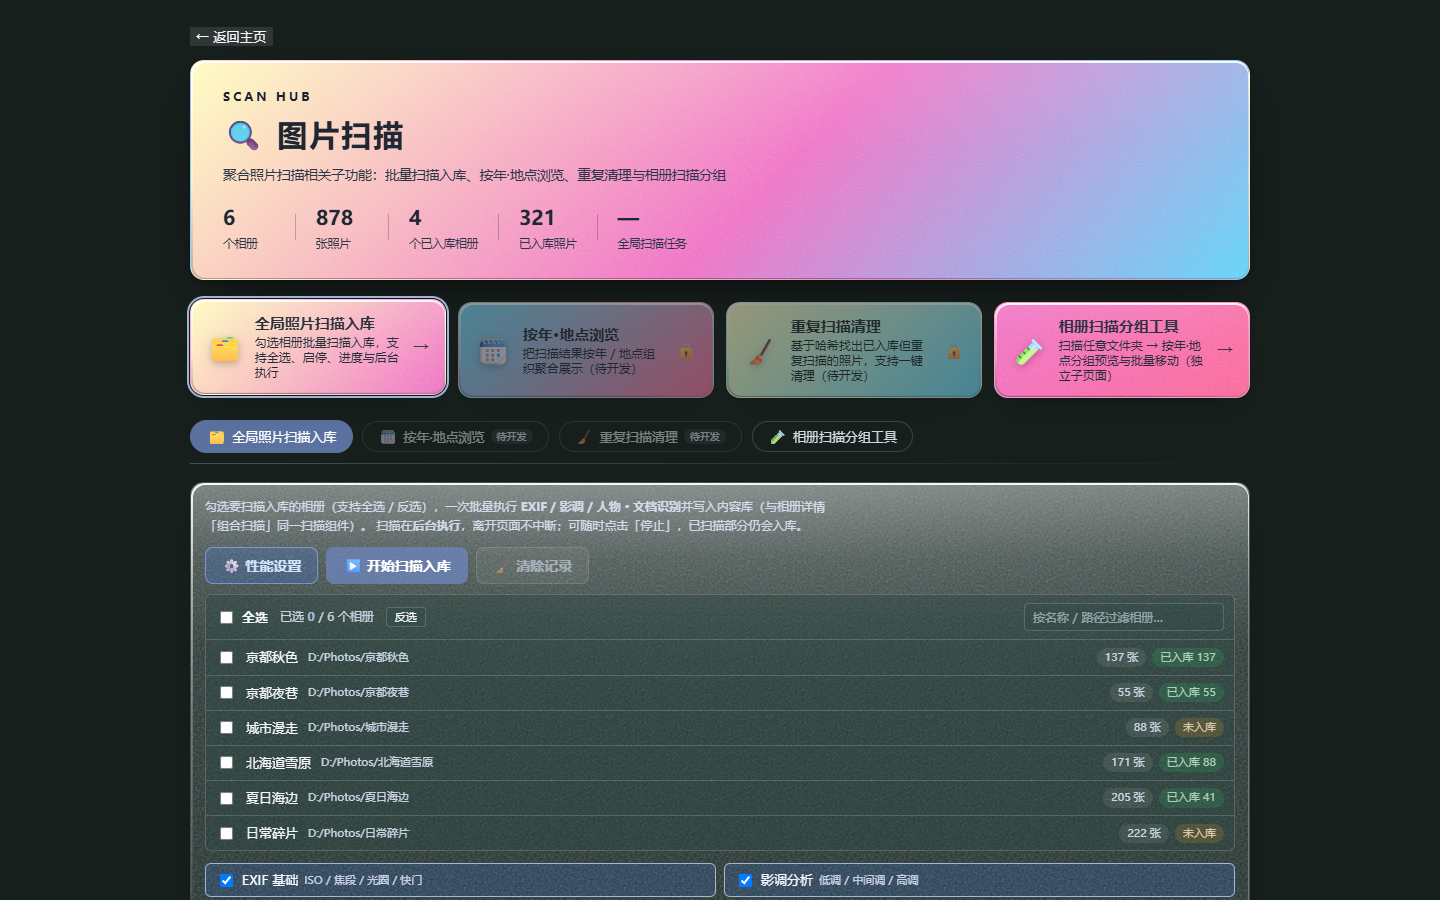
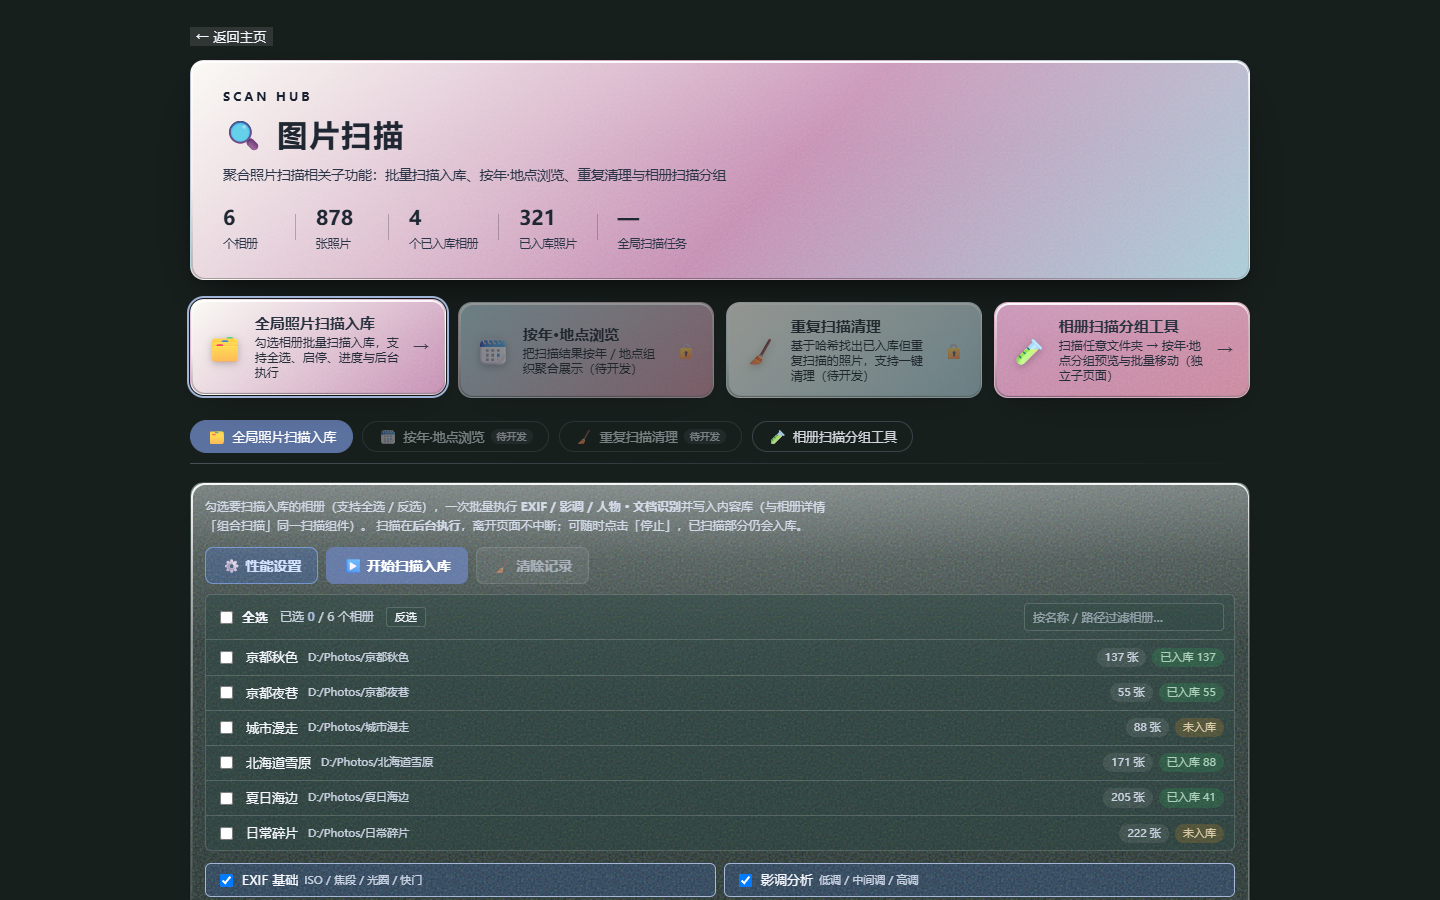
feat(theme): 糖果彩虹色板注册进饱和度管线——hero横幅/入口卡/回忆故事卡的渐变改为 var(--candy-*)，滑块现在同时带动这两页组件

Changed region(s): [[0.125, 0.0622, 0.6875, 0.4356], [0.5938, 0.0622, 0.875, 0.4667]]

diff --git a/src/views/Memories.vue b/src/views/Memories.vue
@@ -199,17 +199,17 @@ function gotoPerson(p: PersonInfo) {
 }
 
 /* -------------------- 故事/年度卡底色（鲜艳彩虹 · 用户色卡） --------------------
-   六个基色来自用户提供的色卡：#FFFCBD / #F075C7 / #65D5F9 / #FB6D9B / #505FDD / #3A36E4；
+   六个基色来自用户提供的色卡：var(--candy-cream) / var(--candy-pink) / var(--candy-blue) / var(--candy-rose) / var(--candy-indigo) / var(--candy-violet)；
    文字是白字，底部靠 .mem-story-fade / .mem-year-fade 的黑色 scrim 保对比度。 */
 const PALETTE = [
-  "linear-gradient(135deg, #FFFCBD 0%, #F075C7 100%)",
-  "linear-gradient(135deg, #65D5F9 0%, #FB6D9B 100%)",
-  "linear-gradient(135deg, #F075C7 0%, #505FDD 100%)",
-  "linear-gradient(135deg, #FB6D9B 0%, #3A36E4 100%)",
-  "linear-gradient(135deg, #65D5F9 0%, #F075C7 100%)",
-  "linear-gradient(135deg, #FFFCBD 0%, #65D5F9 100%)",
-  "linear-gradient(135deg, #FB6D9B 0%, #505FDD 100%)",
-  "linear-gradient(135deg, #505FDD 0%, #3A36E4 100%)",
+  "linear-gradient(135deg, var(--candy-cream) 0%, var(--candy-pink) 100%)",
+  "linear-gradient(135deg, var(--candy-blue) 0%, var(--candy-rose) 100%)",
+  "linear-gradient(135deg, var(--candy-pink) 0%, var(--candy-indigo) 100%)",
+  "linear-gradient(135deg, var(--candy-rose) 0%, var(--candy-violet) 100%)",
+  "linear-gradient(135deg, var(--candy-blue) 0%, var(--candy-pink) 100%)",
+  "linear-gradient(135deg, var(--candy-cream) 0%, var(--candy-blue) 100%)",
+  "linear-gradient(135deg, var(--candy-rose) 0%, var(--candy-indigo) 100%)",
+  "linear-gradient(135deg, var(--candy-indigo) 0%, var(--candy-violet) 100%)",
 ];
 function paletteFor(key: string): string {
   let h = 0;
@@ -350,7 +350,7 @@ function goAlbumFromLightbox(albumId: number) {
       class="mem-hero glass-surface candy-surface"
       :style="{
         background:
-          'linear-gradient(135deg, #FFFCBD 0%, #65D5F9 55%, #F075C7 100%)',
+          'linear-gradient(135deg, var(--candy-cream) 0%, var(--candy-blue) 55%, var(--candy-pink) 100%)',
       }"
     >
       <div class="mem-hero-content">

diff --git a/src/views/ScanHub.vue b/src/views/ScanHub.vue
@@ -123,28 +123,28 @@ const subModules: SubModule[] = [
     icon: "🗂",
     title: "全局照片扫描入库",
     desc: "勾选相册批量扫描入库，支持全选、启停、进度与后台执行",
-    gradient: "linear-gradient(135deg, #FFFCBD 0%, #F075C7 100%)",
+    gradient: "linear-gradient(135deg, var(--candy-cream) 0%, var(--candy-pink) 100%)",
   },
   {
     tab: "by-time-place",
     icon: "🗓",
     title: "按年·地点浏览",
     desc: "把扫描结果按年 / 地点组织聚合展示（待开发）",
-    gradient: "linear-gradient(135deg, #65D5F9 0%, #FB6D9B 100%)",
+    gradient: "linear-gradient(135deg, var(--candy-blue) 0%, var(--candy-rose) 100%)",
   },
   {
     tab: "dedupe",
     icon: "🧹",
     title: "重复扫描清理",
     desc: "基于哈希找出已入库但重复扫描的照片，支持一键清理（待开发）",
-    gradient: "linear-gradient(135deg, #FFFCBD 0%, #65D5F9 100%)",
+    gradient: "linear-gradient(135deg, var(--candy-cream) 0%, var(--candy-blue) 100%)",
   },
   {
     tab: "test",
     icon: "🧪",
     title: "相册扫描分组工具",
     desc: "扫描任意文件夹 → 按年·地点分组预览与批量移动（独立子页面）",
-    gradient: "linear-gradient(135deg, #F075C7 0%, #FB6D9B 100%)",
+    gradient: "linear-gradient(135deg, var(--candy-pink) 0%, var(--candy-rose) 100%)",
   },
 ];
 
@@ -178,7 +178,7 @@ function onTabClick(t: ScanTab) {
       class="scan-hero glass-surface candy-surface"
       :style="{
         background:
-          'linear-gradient(135deg, #FFFCBD 0%, #F075C7 55%, #65D5F9 100%)',
+          'linear-gradient(135deg, var(--candy-cream) 0%, var(--candy-pink) 55%, var(--candy-blue) 100%)',
       }"
     >
       <div class="scan-hero-content">

diff --git a/src/views/SmartAlbum.vue b/src/views/SmartAlbum.vue
@@ -117,28 +117,28 @@ const subModules: SubModule[] = [
     title: "人物",
     desc: "按出现频率自动聚类，支持命名、合并、查看照片",
     tab: "face",
-    gradient: "linear-gradient(135deg, #65D5F9 0%, #F075C7 100%)",
+    gradient: "linear-gradient(135deg, var(--candy-blue) 0%, var(--candy-pink) 100%)",
   },
   {
     icon: "🌟",
     title: "回忆",
     desc: "智能相册故事：按月 / 按年聚合的精彩瞬间",
     path: "/memories",
-    gradient: "linear-gradient(135deg, #FFFCBD 0%, #F075C7 100%)",
+    gradient: "linear-gradient(135deg, var(--candy-cream) 0%, var(--candy-pink) 100%)",
   },
   {
     icon: "📅",
     title: "时间线",
     desc: "跨相册按拍摄时间聚合浏览",
     path: "/timeline",
-    gradient: "linear-gradient(135deg, #65D5F9 0%, #FB6D9B 100%)",
+    gradient: "linear-gradient(135deg, var(--candy-blue) 0%, var(--candy-rose) 100%)",
   },
   {
     icon: "🔎",
     title: "智能搜索",
     desc: "自然语言 + 多维筛选检索照片",
     path: "/search",
-    gradient: "linear-gradient(135deg, #FFFCBD 0%, #65D5F9 100%)",
+    gradient: "linear-gradient(135deg, var(--candy-cream) 0%, var(--candy-blue) 100%)",
   },
 ];
 
@@ -157,7 +157,7 @@ function openSub(m: SubModule) {
       class="smart-hero glass-surface candy-surface"
       :style="{
         background:
-          'linear-gradient(135deg, #65D5F9 0%, #FB6D9B 55%, #F075C7 100%)',
+          'linear-gradient(135deg, var(--candy-blue) 0%, var(--candy-rose) 55%, var(--candy-pink) 100%)',
       }"
     >
       <div class="smart-hero-content">

diff --git a/src/stores/theme.ts b/src/stores/theme.ts
@@ -422,6 +422,15 @@ export const useThemeStore = defineStore("theme", () => {
     body.style.setProperty("--color-ok-text", sat(isDark.value ? "#6ed27a" : "#2f9e44"));
     body.style.setProperty("--color-danger-text", sat(isDark.value ? "#f87171" : "#c92a2a"));
     body.style.setProperty("--color-warn-text", sat(isDark.value ? "#f59e0b" : "#b45309"));
+    /* 糖果彩虹色板：hero 横幅 / 入口卡 / 回忆故事卡的渐变基色。
+       这些渐变串在 <script> 里拼装（内联 :style），所以必须注册成令牌才能被
+       饱和度统一带动（否则滑块只影响按钮/背景，糖果卡原地不动）。 */
+    body.style.setProperty("--candy-cream", sat("#fffcbd"));
+    body.style.setProperty("--candy-pink", sat("#f075c7"));
+    body.style.setProperty("--candy-blue", sat("#65d5f9"));
+    body.style.setProperty("--candy-rose", sat("#fb6d9b"));
+    body.style.setProperty("--candy-indigo", sat("#505fdd"));
+    body.style.setProperty("--candy-violet", sat("#3a36e4"));
     /* 玻璃卡语境链接色（body.theme-dark 恒为浅蓝 #8ab4ff）：直接覆写 --color-link，
        组件里的 var(--color-link) 引用自动跟随；仅做饱和度缩放（不改 HSL 亮度） */
     body.style.setProperty("--color-link", sat(isDark.value ? "#8ab4ff" : P));

diff --git a/src/assets/main.css b/src/assets/main.css
@@ -32,6 +32,16 @@
   --color-danger-text: #c92a2a;
   --color-warn-text: #b45309;
 
+  /* 糖果彩虹色板（FEAT-087）：hero 横幅 / 入口卡 / 回忆故事卡的渐变基色，
+     六个取用户色卡。组件（含 script 里拼的渐变串）统一引用这几个令牌，
+     由 theme store 的饱和度管线一起下发浓淡；此处为兜底基值。 */
+  --candy-cream: #fffcbd;
+  --candy-pink: #f075c7;
+  --candy-blue: #65d5f9;
+  --candy-rose: #fb6d9b;
+  --candy-indigo: #505fdd;
+  --candy-violet: #3a36e4;
+
   /* 文字色阶 —— 浅色模式
      整体加深一档，确保小字号（11–12px）在白底上也能达到 WCAG AA。
      旧版 #6b7280 在 #f5f6f8 上对比度≈4.6:1（边界通过），
